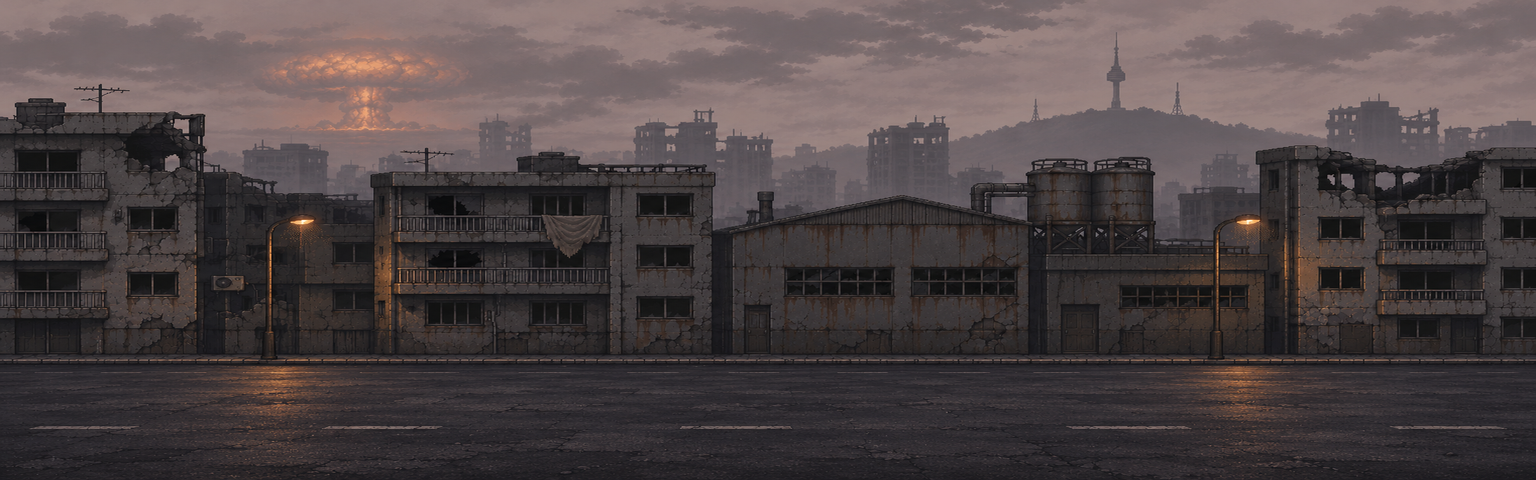
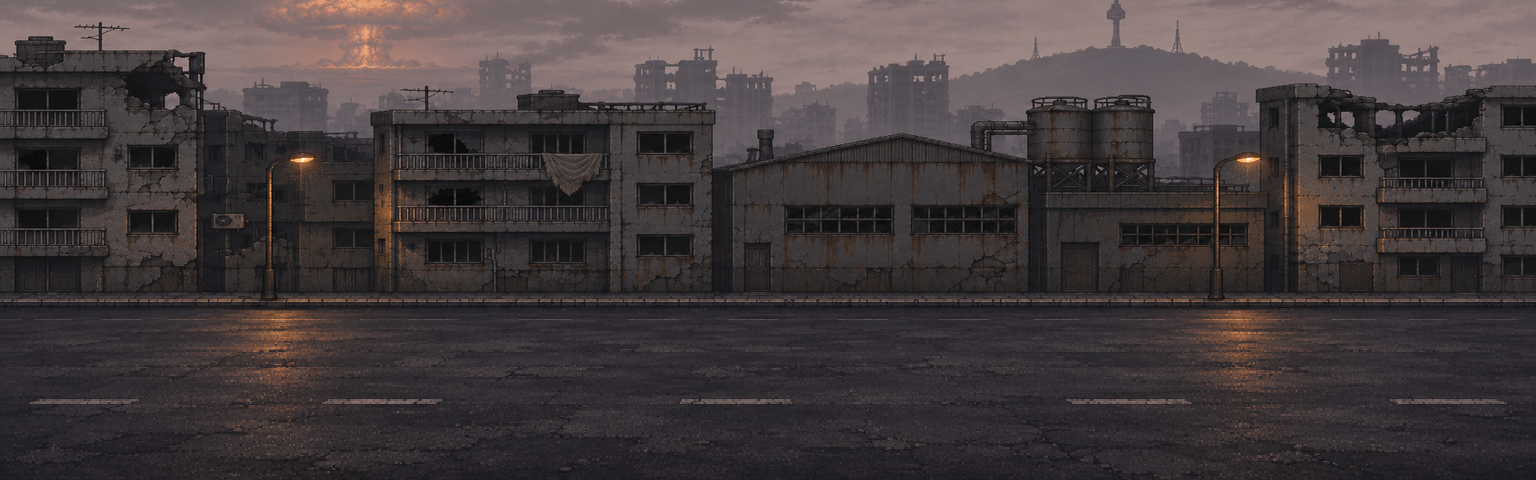
지상 도로를 약 10m 깊이로 넓히고 바닥 범위를 맵별 값으로 분리
지상 배경의 하늘 위쪽을 잘라 건물을 올리고 도로를 늘려 걸을 수 있는 깊이를
약 6.1m(98px)에서 약 10m(160px)로 넓힘. 바닥 범위를 TileMap의
floor_bottom·floor_top으로 옮겨 맵마다 다르게 둘 수 있게 하고(방공호는 기존
약 6m), 시작점·출구·폐차를 넓어진 도로 가운데로 옮김.
길찾기 칸 1938→3461개, 이동 영역 계산 약 9→19ms(상태 변경 시 1회, 캐시).
PRD·PLAN 반영.

diff --git a/src/tile_map.py b/src/tile_map.py
@@ -3,20 +3,25 @@
 
 WIDTH = 768
 HEIGHT = 480
-FLOOR_BOTTOM = 28
-FLOOR_TOP = 126
-SPAWN = (120, 78)
-EXIT = (1416, 104)
+# The street's road is about 10 m deep (16 px per metre of depth, see nav.py).
+STREET_FLOOR_BOTTOM = 28
+STREET_FLOOR_TOP = 188
+SPAWN = (120, 108)
+EXIT = (1416, 134)
 WRECK_LEFT = 610
 WRECK_RIGHT = 694
-WRECK_Y = 78
+WRECK_Y = 108
 WRECK_HALF_DEPTH = 8
 
 
 class TileMap:
+    """A map's picture and where one can stand on it. Each map sets its own floor band."""
+
     width = WIDTH * 2
     left_edge = 0
     right_edge = width
+    floor_bottom = STREET_FLOOR_BOTTOM
+    floor_top = STREET_FLOOR_TOP
     has_wreck = True
 
     def __init__(self, background):
@@ -25,7 +30,7 @@ class TileMap:
     def can_stand(self, x, y, half_size):
         return (
             self.left_edge + half_size <= x <= self.right_edge - half_size
-            and FLOOR_BOTTOM + half_size <= y <= FLOOR_TOP - half_size
+            and self.floor_bottom + half_size <= y <= self.floor_top - half_size
             and not (
                 self.has_wreck
                 and WRECK_LEFT - half_size < x < WRECK_RIGHT + half_size

diff --git a/src/nav.py b/src/nav.py
@@ -8,7 +8,6 @@ straight, so movement looks free like BG3 while the maths stays simple.
 import heapq
 from math import hypot
 
-from tile_map import FLOOR_BOTTOM, FLOOR_TOP
 
 
 # 1.5 m equals the old 48 px cell. The floor's depth axis is foreshortened 2:1,
@@ -76,8 +75,8 @@ class NavField:
         self.tile_map = tile_map
         self.left, self.right = left, right
         self.columns = int((right - left) // NODE_X)
-        self.y0 = FLOOR_BOTTOM + CLEARANCE
-        self.rows = int((FLOOR_TOP - CLEARANCE - self.y0) // NODE_Y) + 1
+        self.y0 = tile_map.floor_bottom + CLEARANCE
+        self.rows = int((tile_map.floor_top - CLEARANCE - self.y0) // NODE_Y) + 1
         self.static = {
             (c, r) for c in range(self.columns) for r in range(self.rows)
             if tile_map.can_stand(*self.position((c, r)), CLEARANCE)

diff --git a/src/shelter.py b/src/shelter.py
@@ -13,3 +13,5 @@ class ShelterMap(TileMap):
     has_wreck = False
     left_edge = 25
     right_edge = 746
+    floor_bottom = 28
+    floor_top = 126         # the shelter floor keeps its painted depth (about 6 m)

diff --git a/PLAN.md b/PLAN.md
@@ -22,7 +22,7 @@
 
 - 야구 방망이 시제품은 좌클릭으로 마우스가 있는 쪽을 공격하고, Space로 짧게 대시한다. 지상 상자에서 거리·깊이·방향과 한 번의 타격 판정을 확인한 뒤 생존자 전투에 연결한다.
 
-- 첫 지상 테스트 맵은 1536×480 픽셀이다. A/D로 도로를 따라 이동하고 W/S로 앞뒤 깊이를 조절한다. 카메라는 캐릭터를 가로로 따라가며 맵 경계에서 멈춘다. 보급품을 챙긴 뒤 오른쪽 출구로 이동한다.
+- 첫 지상 테스트 맵은 1536×480 픽셀(가로 약 48m)이다. 걸을 수 있는 도로 깊이는 약 10m(160px)다. A/D로 도로를 따라 이동하고 W/S로 앞뒤 깊이를 조절한다. 카메라는 캐릭터를 가로로 따라가며 맵 경계에서 멈춘다. 보급품을 챙긴 뒤 오른쪽 출구로 이동한다.
 
 - 방공호에서 공용 보급품을 챙기고 필요하면 생존자와 물물교환한 뒤 출발한다.
 - 생존자 한 명이 지키는 짧은 길에 물자를 둔다. 다가가면 경고하고, 거리를 두면 대화를 시도할 수 있다. 우회로는 전투 위험이 낮지만 이동 시간이 더 길다.
@@ -71,6 +71,7 @@
 - **2026-11-10 · 외부 에셋·맵 에디터 허용** — 수업에서 외부 에셋 사용을 적극 권장하고 맵 에디터 사용도 가능하다고 안내받음. 그래픽을 직접 제작하지 않고 외부 에셋(출처·라이선스 기록)과 맵 에디터로 맵을 만드는 방안을 검토한다. 방안이 정해지면 이 항목에 결과를 덧붙인다. 같은 날 "관련 사이트와 방법, 제 게임 장르에 맞는 툴을 계속 쓰고 싶다"는 요청과 "관련 사이트에서 쓸만한 것을 조사해 보라"는 요청을 받아 [외부 도구·맵 에디터·에셋 활용 방안](docs/research/EXTERNAL_TOOLS.md)에 조사 결과와 제안을 정리했다(맵 에디터·예산·캐릭터 유지 여부는 결정 대기).
 - **2026-11-10 · 라이선스 기준** — "라이선스는 최대한 유하게 하죠." "교육용으로 제가 사용하는건데 괜찮다고 봅니다." 수업 과제(교육용)이므로 라이선스를 엄격하게 따지지 않고 폭넓게 쓴다. CC0·CC-BY뿐 아니라 CraftPix·Loovgames처럼 "게임 사용은 허용, 원본 재배포 금지"인 팩도 후보에 넣는다. 다만 비상업(NC)·재배포 금지 조건은 문서에 표시해 두고, 모든 에셋의 제작자·출처·라이선스를 [자료 및 출처](docs/references/ASSETS.md)와 e-Class 제출란에 적는다. (참고: 재배포 금지 조건은 사용 목적과 별개로 공개 저장소에 원본 PNG를 올리는 것을 막는 조항이라, 문제가 되면 해당 파일만 교체할 수 있게 출처를 꼼꼼히 남긴다.) 이어서 "일단 쓰고 나중에 문제가 생기면 수정하는 방향으로 합시다."라고 확정했다. 재배포 금지 조항에 대한 설명을 듣고도 우선 사용하기로 했으며, 문제가 생기면 그때 해당 파일을 교체한다.
 - **2026-11-10 · 타격감은 모든 공격에 공통으로** — "이거는 방망이같은 예시인거고 다른 공격에서도 모두 동일하게 작동해야합니다." "그걸 계속 생각을 하면서 작성해야합니다." 큰 피해일수록 타격감이 커지게 하되, 무기마다 따로 정하지 않고 공통 모듈(`hit_feel.py`)에서 피해와 대상만 보고 정한다. 앞으로 다른 기능도 방망이·피폭체 같은 첫 예시에만 맞추지 않고, 새 무기·스킬·적·동료가 들어와도 같은 규칙으로 작동하게 작성한다.
+- **2026-11-10 · 지상 길을 약 10m로 넓힘** — "길이 좀 더 넓으면 좋겠습니다." "약 10m로." 지상 도로의 걸을 수 있는 깊이를 약 6.1m(98px)에서 약 10m(160px)로 넓혔다. 배경은 하늘 위쪽 62px를 잘라 건물을 올리고 도로를 아래로 늘린 시안대로 만들었다. 바닥 범위는 맵마다 다를 수 있게 지도 클래스의 값(`floor_bottom`·`floor_top`)으로 옮겼고, 방공호는 기존 약 6m를 유지한다. 성능: 길찾기 칸이 1938개에서 3461개로 늘어 이동 가능 영역 계산이 약 9ms에서 19ms(전체 탐색 19→37ms)가 됐다. 계산은 상태가 바뀔 때 한 번만 하고 캐시하므로 한 프레임 안에 든다. 이어서 "이렇게 작업하고 나서 에셋을 찾아보시죠"라는 지시에 따라 다음 단계로 에셋을 고른다.
 
 ## Gemini와의 작업 분담
 
